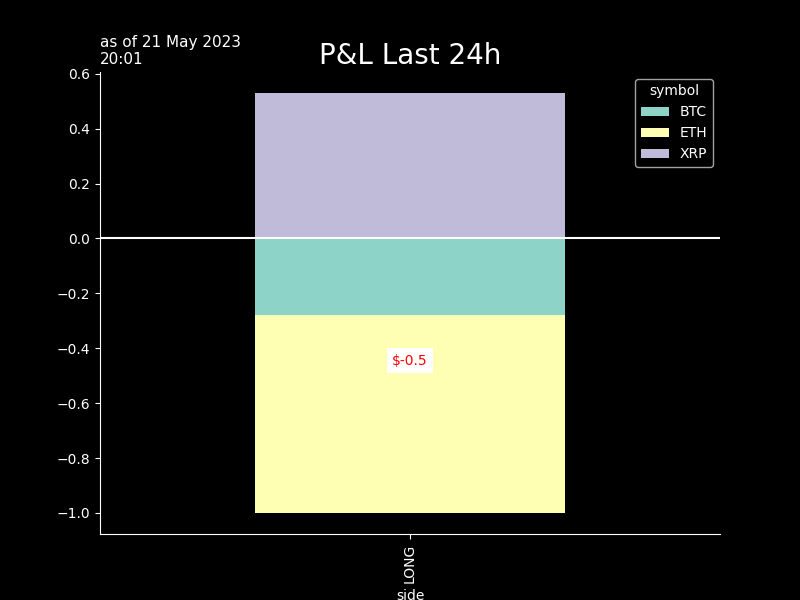
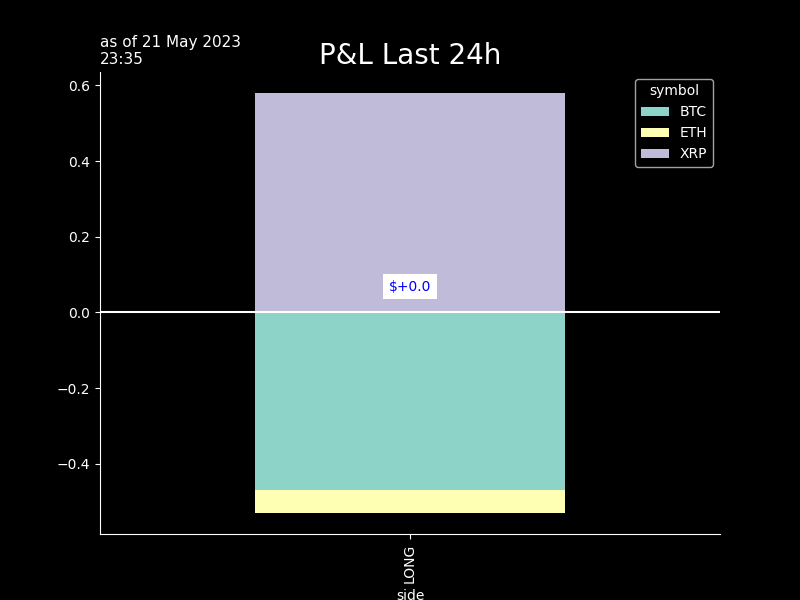
seb_commit

diff --git a/crypto/graphs/bt_trades_book.htmltrade_trades_book.html b/crypto/graphs/bt_trades_book.htmltrade_trades_book.html
@@ -38,54 +38,54 @@
   <tbody>
     <tr>
       <th>XRPUSDT</th>
-      <td>0.4572</td>
-      <td>2023-05-21 18:34:34</td>
-      <td>339.500</td>
-      <td>$155.2</td>
-      <td>$0.03</td>
+      <td>0.4589</td>
+      <td>2023-05-21 22:32:38</td>
+      <td>-424.700</td>
+      <td>$-194.9</td>
+      <td>$0.04</td>
       <td>2.0</td>
-      <td>0.0</td>
-      <td>0.45725</td>
-      <td>2023-05-21 19:31</td>
-      <td>0.0</td>
-      <td>1.0</td>
-      <td>.4574</td>
+      <td>0.6</td>
+      <td>0.45855</td>
+      <td>2023-05-21 23:31</td>
       <td>0.1</td>
-      <td>5.0</td>
-    </tr>
-    <tr>
-      <th>ETHUSDT</th>
-      <td>1805.4700</td>
-      <td>2023-05-21 18:33:52</td>
-      <td>0.086</td>
-      <td>$155.3</td>
-      <td>$0.03</td>
-      <td>2.0</td>
-      <td>0.0</td>
-      <td>1805.39500</td>
-      <td>2023-05-21 19:31</td>
+      <td>8.0</td>
+      <td>.459</td>
       <td>-0.0</td>
-      <td>-1.0</td>
-      <td>1806.14</td>
-      <td>0.1</td>
-      <td>4.0</td>
+      <td>-2.0</td>
     </tr>
     <tr>
       <th>BTCUSDT</th>
-      <td>26836.9000</td>
-      <td>2023-05-21 18:33:08</td>
-      <td>0.006</td>
-      <td>$161.0</td>
+      <td>26757.8000</td>
+      <td>2023-05-21 22:34:47</td>
+      <td>-0.007</td>
+      <td>$-187.3</td>
+      <td>$0.04</td>
+      <td>2.0</td>
+      <td>-0.5</td>
+      <td>26755.75000</td>
+      <td>2023-05-21 23:31</td>
+      <td>0.0</td>
+      <td>1.0</td>
+      <td>26760.7</td>
+      <td>-0.0</td>
+      <td>-1.0</td>
+    </tr>
+    <tr>
+      <th>ETHUSDT</th>
+      <td>1804.7200</td>
+      <td>2023-05-21 22:33:29</td>
+      <td>-0.086</td>
+      <td>$-155.2</td>
       <td>$0.03</td>
       <td>2.0</td>
+      <td>-0.1</td>
+      <td>1804.30500</td>
+      <td>2023-05-21 23:31</td>
       <td>0.0</td>
-      <td>26847.75000</td>
-      <td>2023-05-21 19:31</td>
-      <td>0.1</td>
-      <td>4.0</td>
-      <td>26842.</td>
-      <td>0.0</td>
-      <td>2.0</td>
+      <td>3.0</td>
+      <td>1805.</td>
+      <td>-0.0</td>
+      <td>-1.0</td>
     </tr>
   </tbody>
 </table>

diff --git a/crypto/graphs/bt_trades_recap.htmltrade_trades_recap.html b/crypto/graphs/bt_trades_recap.htmltrade_trades_recap.html
@@ -9,32 +9,32 @@
   <tbody>
     <tr>
       <th>as of</th>
-      <td>21May 18:33&gt;&gt;18:34</td>
+      <td>21May 22:32&gt;&gt;22:34</td>
       <td>#trades: 3</td>
     </tr>
     <tr>
       <th>trade net</th>
-      <td>+472.0</td>
-      <td>+152.1%</td>
+      <td>-537.0</td>
+      <td>-173.1%</td>
     </tr>
     <tr>
       <th>trade gross</th>
-      <td>+472.0</td>
-      <td>+152.1%</td>
+      <td>+537.0</td>
+      <td>+173.1%</td>
     </tr>
     <tr>
       <th>BUY</th>
-      <td>+472.0</td>
-      <td>+152.1%</td>
-    </tr>
-    <tr>
-      <th>SELL</th>
       <td>+0.0</td>
       <td>+0.0%</td>
     </tr>
     <tr>
+      <th>SELL</th>
+      <td>-537.0</td>
+      <td>-173.1%</td>
+    </tr>
+    <tr>
       <th>fees</th>
-      <td>$ 0.094</td>
+      <td>$ 0.107</td>
       <td>2.0bp</td>
     </tr>
   </tbody>

diff --git a/crypto/graphs/bt_trades_pnlD_recap.htmltrade_trades_pnlD_recap.html b/crypto/graphs/bt_trades_pnlD_recap.htmltrade_trades_pnlD_recap.html
@@ -1,7 +1,7 @@
 <table border="1" class="dataframe">
   <thead>
     <tr style="text-align: right;">
-      <th>21 May 19:34</th>
+      <th>21 May 23:34</th>
       <th>realizedPnl</th>
       <th>PnLvsArrival</th>
       <th>PnLvsLast</th>
@@ -11,20 +11,20 @@
     <tr>
       <th>in$</th>
       <td>0.0</td>
-      <td>0.1</td>
       <td>0.2</td>
+      <td>-0.1</td>
     </tr>
     <tr>
-      <th>in bp 471 traded</th>
-      <td>0 bp</td>
-      <td>2 bp</td>
-      <td>3 bp</td>
+      <th>in bp 537 traded</th>
+      <td>1 bp</td>
+      <td>4 bp</td>
+      <td>-1 bp</td>
     </tr>
     <tr>
       <th>in bp 310 AUMs</th>
-      <td>0 bp</td>
-      <td>3 bp</td>
-      <td>5 bp</td>
+      <td>2 bp</td>
+      <td>6 bp</td>
+      <td>-3 bp</td>
     </tr>
   </tbody>
 </table>
